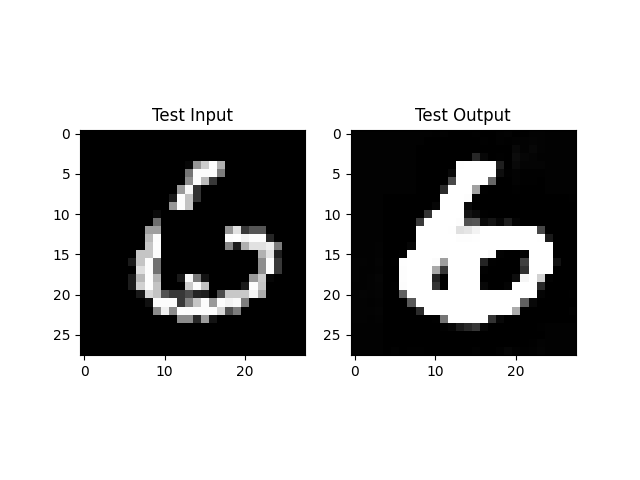
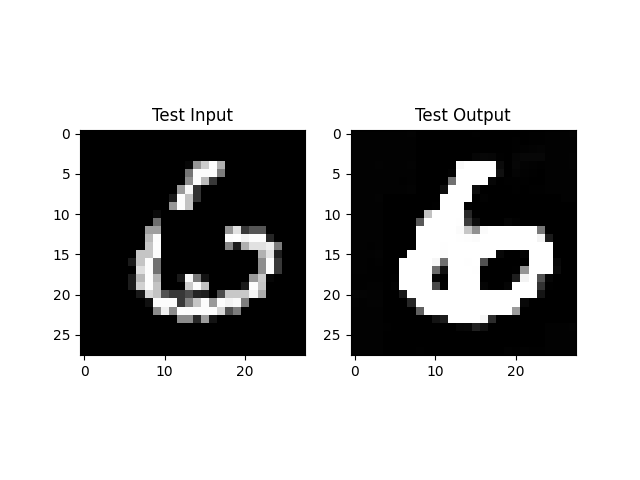
added attention

diff --git a/src/template_solution.py b/src/template_solution.py
@@ -35,8 +35,8 @@ https://pytorch.org/tutorials/recipes/recipes/tensorboard_with_pytorch.html
 # https://pytorch.org/docs/stable/notes/mps.html
 
 # It is important that your model and all data are on the same device.
-#device = torch.device("cuda:0" if torch.cuda.is_available() else "mps") -> for mac
-device = torch.device("cuda:0" if torch.cuda.is_available() else "cpu")
+device = torch.device("cuda:0" if torch.cuda.is_available() else "mps")
+#device = torch.device("cuda:0" if torch.cuda.is_available() else "cpu")
 
 
 def get_data(**kwargs):
@@ -76,33 +76,7 @@ def get_data(**kwargs):
     
     return train_data_input, train_data_label, test_data_input
 
-class AsymmetricSmoothL1Loss(nn.Module):
-    def __init__(self, beta=1.0, overestimation_factor=2.0, underestimation_factor=1.0):
-        super(AsymmetricSmoothL1Loss, self).__init__()
-        self.beta = beta
-        self.overestimation_factor = overestimation_factor
-        self.underestimation_factor = underestimation_factor
 
-    def forward(self, input, target):
-        # Compute the absolute error
-        error = torch.abs(input - target)
-
-        # Asymmetric overestimation (prediction > target) and underestimation (prediction < target)
-        overestimation_mask = (input > target).float()
-        underestimation_mask = (input < target).float()
-
-        # Apply different factors based on over/underestimation
-        loss = torch.where(overestimation_mask == 1, 
-                           self.overestimation_factor * error, 
-                           self.underestimation_factor * error)
-
-        # Apply Huber loss based on error and beta
-        loss = torch.where(loss < self.beta, 
-                           0.5 * loss ** 2, 
-                           self.beta * (loss - 0.5 * self.beta))
-
-        # Return the mean loss
-        return loss.mean()
 
 
 def train_model(train_data_input, train_data_label, **kwargs):
@@ -116,7 +90,7 @@ def train_model(train_data_input, train_data_label, **kwargs):
     train_dataset, val_dataset = random_split(dataset, [train_size, val_size])
     
     # Create data loaders
-    batch_size = 50
+    batch_size = 10
     train_loader = DataLoader(train_dataset, batch_size=batch_size, shuffle=True)
     val_loader = DataLoader(val_dataset, batch_size=batch_size, shuffle=False)
     
@@ -124,8 +98,7 @@ def train_model(train_data_input, train_data_label, **kwargs):
     model = Model().to(device)
     
     # Define loss functions
-    #criterion = nn.SmoothL1Loss(beta=1.0)  # Huber loss
-    criterion = AsymmetricSmoothL1Loss(beta=1.0, overestimation_factor=2.0, underestimation_factor=1.0)
+    criterion = nn.SmoothL1Loss(beta=1.0)  # Huber loss
     mse_criterion = nn.MSELoss()  # For tracking MSE
     
     # Set up optimizer and scheduler
@@ -183,13 +156,26 @@ def train_model(train_data_input, train_data_label, **kwargs):
         scheduler.step(val_mse)
         
         # Print progress
-        print(f"Epoch [{epoch+1}/10] "
+        print(f"Epoch [{epoch+1}/20] "
               f"Train MSE: {train_mse:.4f} - "
               f"Val MSE: {val_mse:.4f}")
     
     return model
 
 
+class SpatialAttention(nn.Module):
+    def __init__(self, kernel_size=7):
+        super(SpatialAttention, self).__init__()
+
+        self.conv1 = nn.Conv2d(2, 1, kernel_size, padding=kernel_size // 2, bias=False)
+        self.sigmoid = nn.Sigmoid()
+
+    def forward(self, x):
+        avg_out = torch.mean(x, dim=1, keepdim=True)
+        max_out, _ = torch.max(x, dim=1, keepdim=True)
+        x = torch.cat([avg_out, max_out], dim=1)
+        x = self.conv1(x)
+        return self.sigmoid(x)
 class Model(nn.Module):
     def __init__(self):
         super(Model, self).__init__()
@@ -205,6 +191,8 @@ class Model(nn.Module):
             nn.MaxPool2d(kernel_size=2, stride=2)
         )
         
+        # Spatial attention
+        self.spatial_attention = SpatialAttention(kernel_size=7)
         # Decoder
         self.decoder = nn.Sequential(
             nn.ConvTranspose2d(64, 32, kernel_size=2, stride=2),
@@ -216,6 +204,11 @@ class Model(nn.Module):
 
     def forward(self, x):
         x = self.encoder(x)
+
+        # Apply spatial attention
+        attention = self.spatial_attention(x)
+        x = x * attention
+
         x = self.decoder(x)
         return x
 
